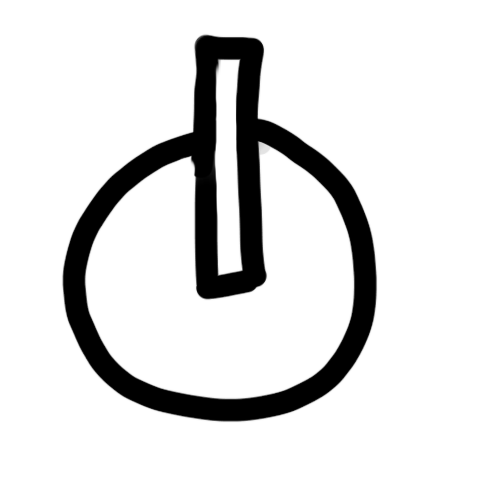
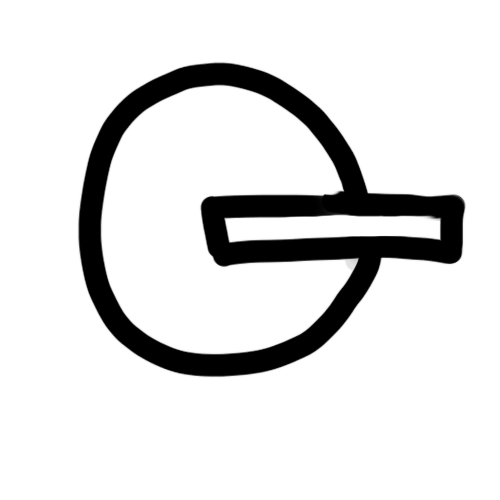
炮塔可旋转，跟踪敌人，瞄准就绪后开火

Changed region(s): [[0.12, 0.06, 0.93, 0.87]]

diff --git a/Tower_defence/scene.cpp b/Tower_defence/scene.cpp
@@ -3,6 +3,7 @@
 #include "config.h"
 #include <QDebug>
 #include <math.h>
+#include "tool.h"
 Scene::Scene()
 {
     Tower* displayedTower = new Tower("attacker", false);
@@ -33,9 +34,11 @@ void Scene::show(QPainter* p){
         towers[i]->handleCoolDown();
     }
     processor_hatredControll();
-    creator_bullets();
+    processor_Tower_rotate();
     processor_Move();
+    creator_bullets();
     processor_damageConfirm();
+
 
 
 
@@ -190,6 +193,29 @@ void Scene::processor_damageConfirm(){
             }
         }
 
+    }
+}
+void Scene::processor_Tower_rotate(){
+    int i;
+    for(i = 0; i < towers.size(); i++){
+        if(!towers[i]->hatred.isEmpty()){
+            MyPoint vec_aim;
+            MyPoint aim(towers[i]->hatred[0]->getPosition());
+            MyPoint pole(towers[i]->getPosition());
+            vec_aim.setX(aim.x()-pole.x());
+            vec_aim.setY(aim.y()-pole.y());
+            double angle_aim = Tool::vector_to_angle(vec_aim);
+            if(abs(angle_aim - towers[i]->getAngle()) > towers[i]->get_velocity_rotaion()/FPS){
+                //缓慢旋转中
+                towers[i]->setAngle(towers[i]->getAngle()
+                                    + Tool::sign(angle_aim - towers[i]->getAngle())//这是一个符号函数，算方向的
+                                    * towers[i]->get_velocity_rotaion()/FPS);
+                towers[i]->setFireReady(false);
+            }else{
+                //能转到，爽
+                towers[i]->setAngle(angle_aim);
+            }
+        }
     }
 }
 

diff --git a/Tower_defence/tool.cpp b/Tower_defence/tool.cpp
@@ -1,0 +1,39 @@
+#include "tool.h"
+#include <math.h>
+#define _USE_MATH_DEFINES
+#include "config.h"
+
+Tool::Tool()
+{
+
+}
+double Tool::vector_to_angle(MyPoint p){
+    double x = p.x();
+    double y = p.y();
+    double bevel = pow(pow(x,2)+pow(y,2), 0.5);//斜边
+    double _sin = y/bevel;
+    double _cos = x/bevel;
+    double ans1 = asin(_sin);
+    double ans2 = acos(_cos);
+    double ans;
+    if(_sin >= 0 && _cos >= 0){
+        ans = ans1;
+    }else if(_sin >= 0 && _cos <= 0){
+        ans = ans2;
+    }else if(_sin <= 0 && _cos >= 0){
+        ans = ans1+ M_PI*2;
+    }else{
+        ans = 2*M_PI - ans2;
+    }
+    return ans*180/M_PI;
+}
+MyPoint Tool::angel_to_vector(double angle){
+    double ang = angle/180*M_PI;
+    double _sin = sin(ang);
+    double _cos = cos(ang);
+    MyPoint p;
+    p.setX(_cos);
+    p.setY(_sin);
+    return p;
+}
+int Tool::sign(double a){return a>0?1:-1;}

diff --git a/Tower_defence/bullet.cpp b/Tower_defence/bullet.cpp
@@ -3,6 +3,7 @@
 #include <config.h>
 #include "scene.h"
 #include <QDebug>
+#include "mypoint.h"
 
 Bullet::Bullet(Tower* parent, Enemy* target)
 {
@@ -10,12 +11,14 @@ Bullet::Bullet(Tower* parent, Enemy* target)
     this->damage = parent->getDamage();
     this->icon = new QPixmap;
     icon->load(":/pictures/bullet_test.png");
-    width = BULLET_WIDTH;
-    height = BULLET_WIDTH;
+    this->width = BULLET_WIDTH;
+    this->height = BULLET_WIDTH;
     this->velocity = BULLET_VELOCITY;
     this->position.setX(parent->getPosition().x());
     this->position.setY(parent->getPosition().y());
     //方向想引入随机数
+
+
     double dis = Scene::distance((parent->getPosition()), (target->getPosition()));
     double x = target->getPosition().x()-parent->getPosition().x();
     double y = target->getPosition().y()-parent->getPosition().y();

diff --git a/Tower_defence/tower.cpp b/Tower_defence/tower.cpp
@@ -20,7 +20,8 @@ Tower::Tower(string name, bool isInstanlized)
             fireReady = false;
             fireInterval = ATTACKER_FIRE_INTERVAL;
             coolDown = ATTACKER_FIRE_INTERVAL;
-
+            velocity_rotation = ATTACKER_VELOCITY_ROTATION;
+            angle = 180;
 
         }else{
 
@@ -42,4 +43,12 @@ void Tower::handleCoolDown(){
     }
     //qDebug()<<"cooldown:"<<coolDown<<endl;
     //qDebug()<<"fireReady"<<fireReady<<endl;
+}
+void Tower::show(QPainter *p){
+    p->translate(this->position.x(), this->position.y());
+    p->rotate(angle);
+    p->drawPixmap(-width/2,-height/2,width, height, *icon);
+    p->rotate(-angle);
+    p->translate(-this->position.x(), -this->position.y());
+
 }

diff --git a/Tower_defence/tower.h b/Tower_defence/tower.h
@@ -28,6 +28,10 @@ public:
         coolDown = fireInterval;
     }
     QVector<Enemy*> hatred;
+    void show(QPainter* p);
+    double getAngle()const{return angle;}
+    void setAngle(double r){angle = r;}
+    double get_velocity_rotaion()const{return velocity_rotation;}
 
 
 private:
@@ -39,6 +43,8 @@ private:
     bool fireReady;
     double fireInterval;
     double coolDown;
+    double angle;
+    double velocity_rotation;
 };
 
 #endif // TOWER_H

diff --git a/Tower_defence/config.h b/Tower_defence/config.h
@@ -1,6 +1,8 @@
 #ifndef CONFIG_H
 #define CONFIG_H
 
+#define M_PI 3.14159265358979323846
+
 #define MAINWINDOW_HEIGHT 705
 #define MAINWINDOW_WIDTH 990
 #define BACK_GROUND_HEIGHT 690
@@ -14,6 +16,7 @@
 #define ATTACKER_DAMAGE 10
 #define ATTACKER_DISCOVERY 500
 #define ATTACKER_FIRE_INTERVAL 2
+#define ATTACKER_VELOCITY_ROTATION 20
 
 
 #define ENEMY_1_WIDTH 40

diff --git a/Tower_defence/tool.h b/Tower_defence/tool.h
@@ -1,0 +1,16 @@
+#ifndef TOOL_H
+#define TOOL_H
+#include "mypoint.h"
+
+//角度是向右为0度，顺时针旋转为正方向，谨记！
+
+class Tool
+{
+public:
+    Tool();
+    static double vector_to_angle(MyPoint p);
+    static MyPoint angel_to_vector(double angle);
+    static int sign(double a);
+};
+
+#endif // TOOL_H

diff --git a/Tower_defence/main.cpp b/Tower_defence/main.cpp
@@ -1,9 +1,14 @@
 #include "mainwindow.h"
 #include <QApplication>
 #include <QDebug>
+#include <QtGlobal>
+#include <QTime>
 
 int main(int argc, char *argv[])
 {
+    QTime time;
+    time= QTime::currentTime();
+    qsrand(time.msec()+time.second()*1000);
     QApplication a(argc, argv);
     MainWindow w;
     w.show();

diff --git a/Tower_defence/scene.h b/Tower_defence/scene.h
@@ -29,6 +29,7 @@ public:
     void creator_bullets();//子弹生成器
     void processor_damageConfirm();//确认造成伤害
     void processor_Move();//使子弹、敌人移动
+    void processor_Tower_rotate();//炮塔的旋转
 
     static double distance(MyPoint a, MyPoint b);
 private:

diff --git a/Tower_defence/enemy.h b/Tower_defence/enemy.h
@@ -14,11 +14,13 @@ public:
     double get_direction_y()const{return direction_y;}
     int getLife(){return life;}
     void setLife(int l){life = l;}
+
 protected:
     int life;
     int velocity;
     double direction_x;
     double direction_y;
+
 };
 
 #endif // ENEMY_H
